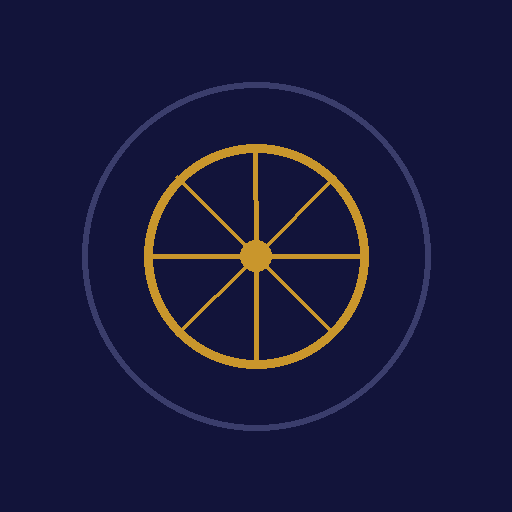
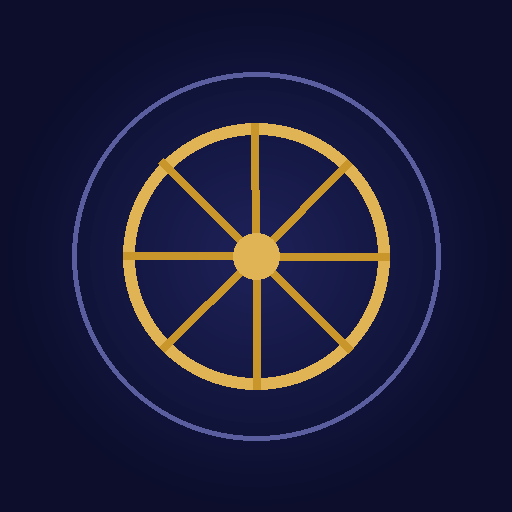
Add files via upload

diff --git a/src/App.jsx b/src/App.jsx
@@ -152,12 +152,40 @@ export default function DharmaOnline() {
     );
   }, [query, rest]);
 
-  const toggleNotify = (id, title) => {
-    setNotified((prev) => {
-      const next = { ...prev, [id]: !prev[id] };
-      setToast(next[id] ? `Reminder set — you'll be notified 30 min before "${title}"` : "Reminder removed");
-      return next;
-    });
+  // Real reminders: since sending true push notifications requires a backend
+  // scheduler (a later phase), this generates a real .ics calendar file the
+  // person's own phone/calendar app will alert them about — genuinely works today.
+  const addToCalendar = (event) => {
+    if (!event.startUTC) {
+      setToast("This event's exact time isn't confirmed yet — check the registration link for details.");
+      return;
+    }
+    const start = new Date(event.startUTC);
+    const end = new Date(start.getTime() + (event.durationMin || 60) * 60000);
+    const fmt = (d) => d.toISOString().replace(/[-:]/g, "").split(".")[0] + "Z";
+    const ics = [
+      "BEGIN:VCALENDAR",
+      "VERSION:2.0",
+      "BEGIN:VEVENT",
+      `UID:${event.id}@dharma-online`,
+      `DTSTAMP:${fmt(new Date())}`,
+      `DTSTART:${fmt(start)}`,
+      `DTEND:${fmt(end)}`,
+      `SUMMARY:${event.title}`,
+      `DESCRIPTION:${(event.rawDescription || "").replace(/\n/g, " ")} Link: ${event.link || ""}`,
+      "BEGIN:VALARM", "TRIGGER:-PT30M", "ACTION:DISPLAY", "DESCRIPTION:Reminder", "END:VALARM",
+      "END:VEVENT",
+      "END:VCALENDAR",
+    ].join("\r\n");
+    const blob = new Blob([ics], { type: "text/calendar" });
+    const url = URL.createObjectURL(blob);
+    const a = document.createElement("a");
+    a.href = url;
+    a.download = `${event.title.slice(0, 40).replace(/[^a-z0-9]+/gi, "-")}.ics`;
+    a.click();
+    URL.revokeObjectURL(url);
+    setNotified((prev) => ({ ...prev, [event.id]: true }));
+    setToast(`Added "${event.title}" to your calendar — you'll get a reminder 30 min before.`);
   };
 
   const toggleExpand = (id) => setExpanded((p) => ({ ...p, [id]: !p[id] }));
@@ -173,7 +201,7 @@ export default function DharmaOnline() {
             <h1 style={{ fontFamily: "'Fraunces', serif" }} className="text-2xl font-semibold tracking-tight text-[#F3EFE3]">
               Dharma Online
             </h1>
-            <p className="text-xs text-[#9A9CC4] mt-0.5">Live Buddhist teachings, wherever you are</p>
+            <p className="text-xs text-[#9A9CC4] mt-0.5">Live Buddhist teachings, shown in your local time</p>
           </div>
           <div className="w-10 h-10 rounded-full bg-gradient-to-br from-[#C9962C] to-[#8B4A6B] flex items-center justify-center text-lg">
             ☸
@@ -206,6 +234,9 @@ export default function DharmaOnline() {
             ))}
           </select>
         </div>
+        <p className="text-[10px] text-[#6B6D9E] mt-1.5 ml-1">
+          Auto-detected from your device — change it if you're checking times for elsewhere.
+        </p>
       </header>
 
       <main className="px-5 mt-5 space-y-8">
@@ -217,7 +248,7 @@ export default function DharmaOnline() {
               event={featured}
               tz={tz}
               notified={!!notified[featured.id]}
-              onNotify={() => toggleNotify(featured.id, featured.title)}
+              onNotify={() => addToCalendar(featured)}
               expanded={!!expanded[featured.id]}
               onExpand={() => toggleExpand(featured.id)}
             />
@@ -237,13 +268,21 @@ export default function DharmaOnline() {
                 event={e}
                 tz={tz}
                 notified={!!notified[e.id]}
-                onNotify={() => toggleNotify(e.id, e.title)}
+                onNotify={() => addToCalendar(e)}
                 expanded={!!expanded[e.id]}
                 onExpand={() => toggleExpand(e.id)}
               />
             ))}
           </div>
         </section>
+
+        <p className="text-center text-[11px] text-[#6B6D9E] pt-2">
+          Events sourced from the public{" "}
+          <a href="https://t.me/Buddhism_Events" target="_blank" rel="noopener noreferrer" className="text-[#8688B8] underline">
+            Dharma Events
+          </a>{" "}
+          Telegram channel, summarized with AI. Always confirm details on the registration link.
+        </p>
       </main>
 
       {/* Toast */}

diff --git a/public/privacy.html b/public/privacy.html
@@ -1,0 +1,51 @@
+<!doctype html>
+<html lang="en">
+<head>
+<meta charset="UTF-8" />
+<meta name="viewport" content="width=device-width, initial-scale=1.0" />
+<title>Privacy Policy — Dharma Online</title>
+<style>
+  body { font-family: -apple-system, Inter, sans-serif; max-width: 680px; margin: 40px auto; padding: 0 20px; line-height: 1.6; color: #222; }
+  h1 { font-size: 1.6rem; }
+  h2 { font-size: 1.15rem; margin-top: 2rem; }
+  a { color: #8B4A6B; }
+</style>
+</head>
+<body>
+
+<h1>Privacy Policy for Dharma Online</h1>
+<p><em>Last updated: July 2026</em></p>
+
+<p>Dharma Online ("the app") helps people find publicly listed online Buddhist teachings and events. This
+policy explains what information the app does and does not collect.</p>
+
+<h2>What we collect</h2>
+<p>The app itself does not require you to create an account, and does not collect personal information
+such as your name, email address, or location, in order to browse events.</p>
+<p>If you choose to add an event to your own calendar, that action happens through your device's own
+calendar app and is not seen or stored by us.</p>
+
+<h2>Timezone detection</h2>
+<p>The app detects your device's timezone locally, in your browser, purely to display event times
+correctly. This information is never sent to or stored on any server.</p>
+
+<h2>Event data sources</h2>
+<p>Event listings shown in the app are gathered from public sources, including public Telegram
+channels, and summarized with the help of AI. We do not control or verify third-party event
+organizers, platforms (such as Zoom or YouTube), or registration processes — please review any
+event's own registration page for how the event organizer handles your information.</p>
+
+<h2>Advertising</h2>
+<p>[If/when ads are enabled in the app, this section will describe what advertising partners
+(e.g. Google AdMob) collect, such as device identifiers, for the purpose of showing ads. Update this
+section before enabling ads.]</p>
+
+<h2>Changes to this policy</h2>
+<p>We may update this policy as the app evolves. Continued use of the app after changes means you
+accept the updated policy.</p>
+
+<h2>Contact</h2>
+<p>Questions about this policy can be sent to: <strong>[YOUR EMAIL ADDRESS HERE]</strong></p>
+
+</body>
+</html>